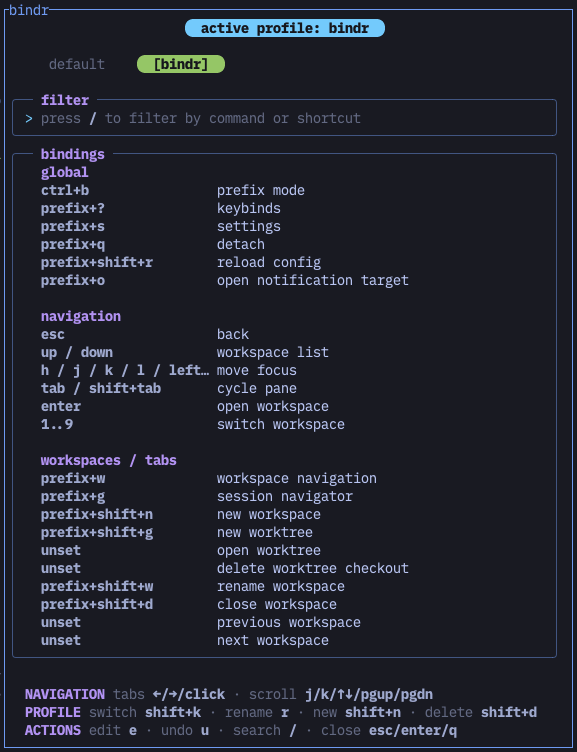
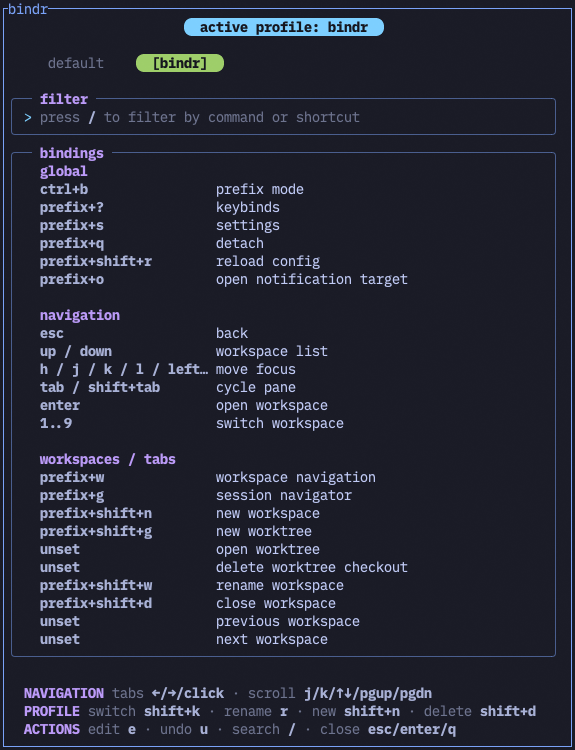
Update screenshots with keybinds and toast captures

diff --git a/README.md b/README.md
@@ -8,6 +8,10 @@ configuration.
 
 ![The bindr keybinds popup with profile tabs, filter field, and bindings](docs/media/bindr-keybinds.png)
 
+**Profile switch toast**
+
+![The toast showing the active bindr profile](docs/media/bindr-toast.png)
+
 ## What it does
 
 - Cycle profiles in creation order, with `default` always first. Press
